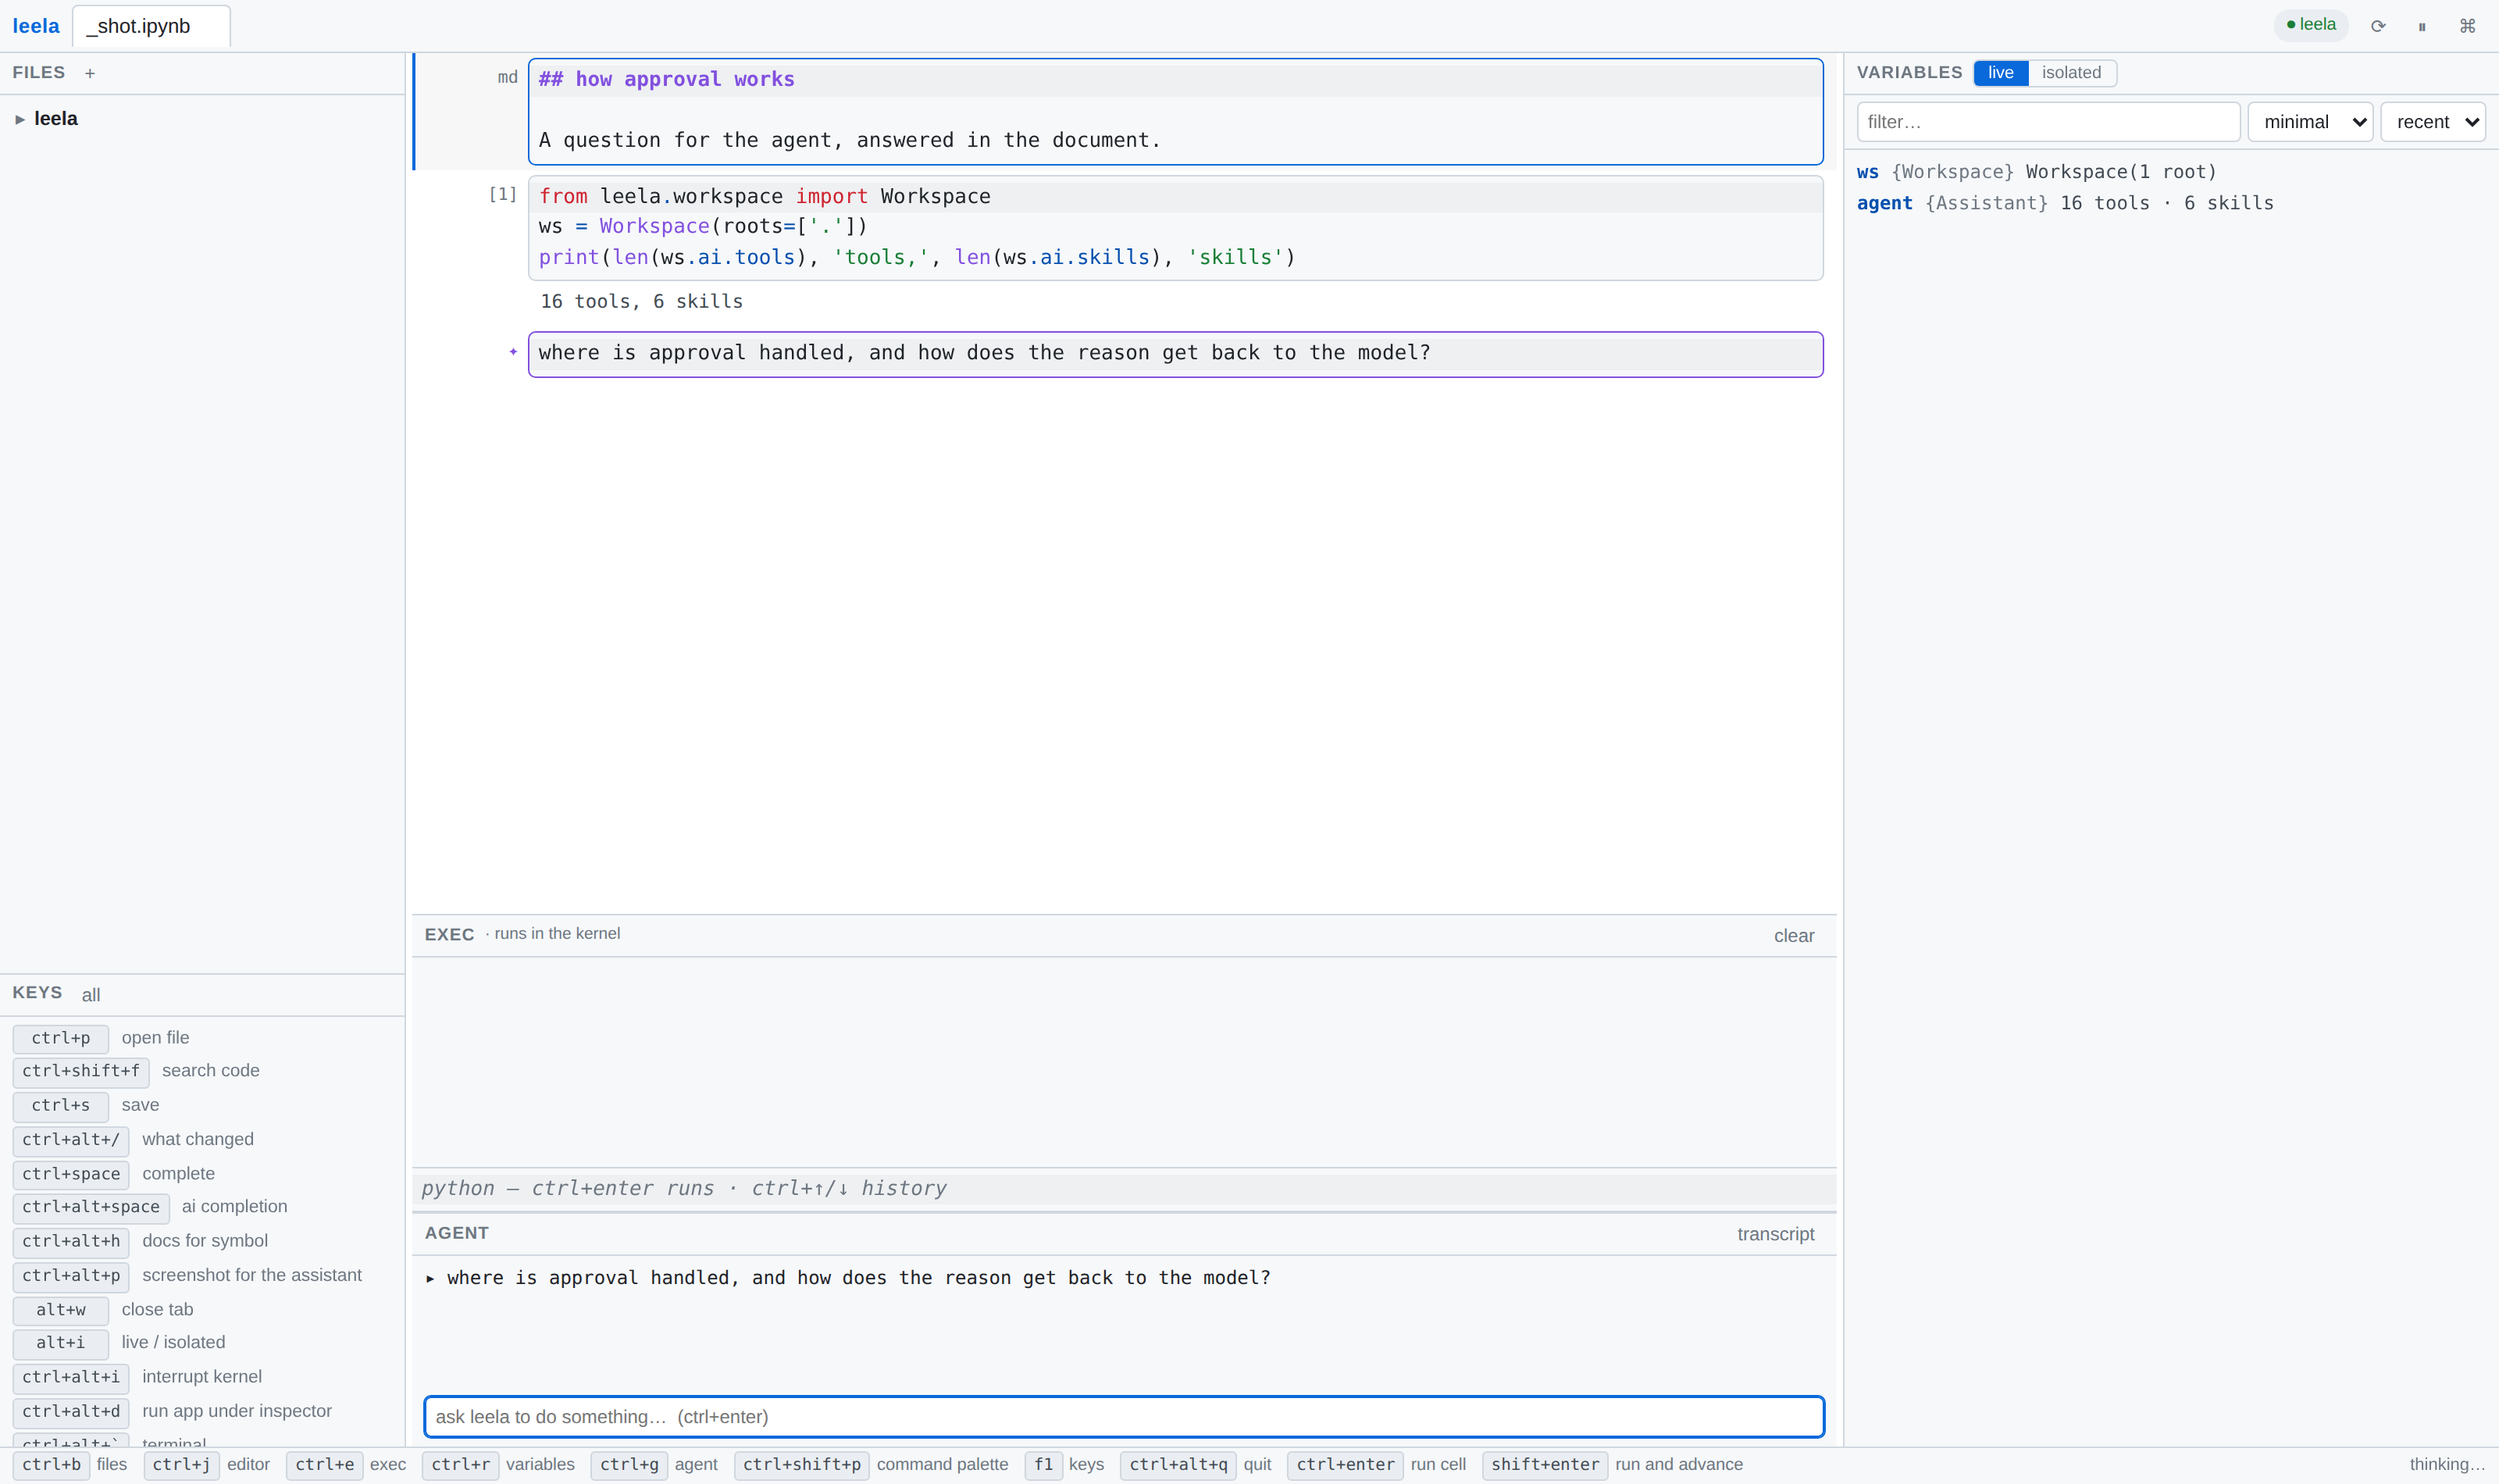
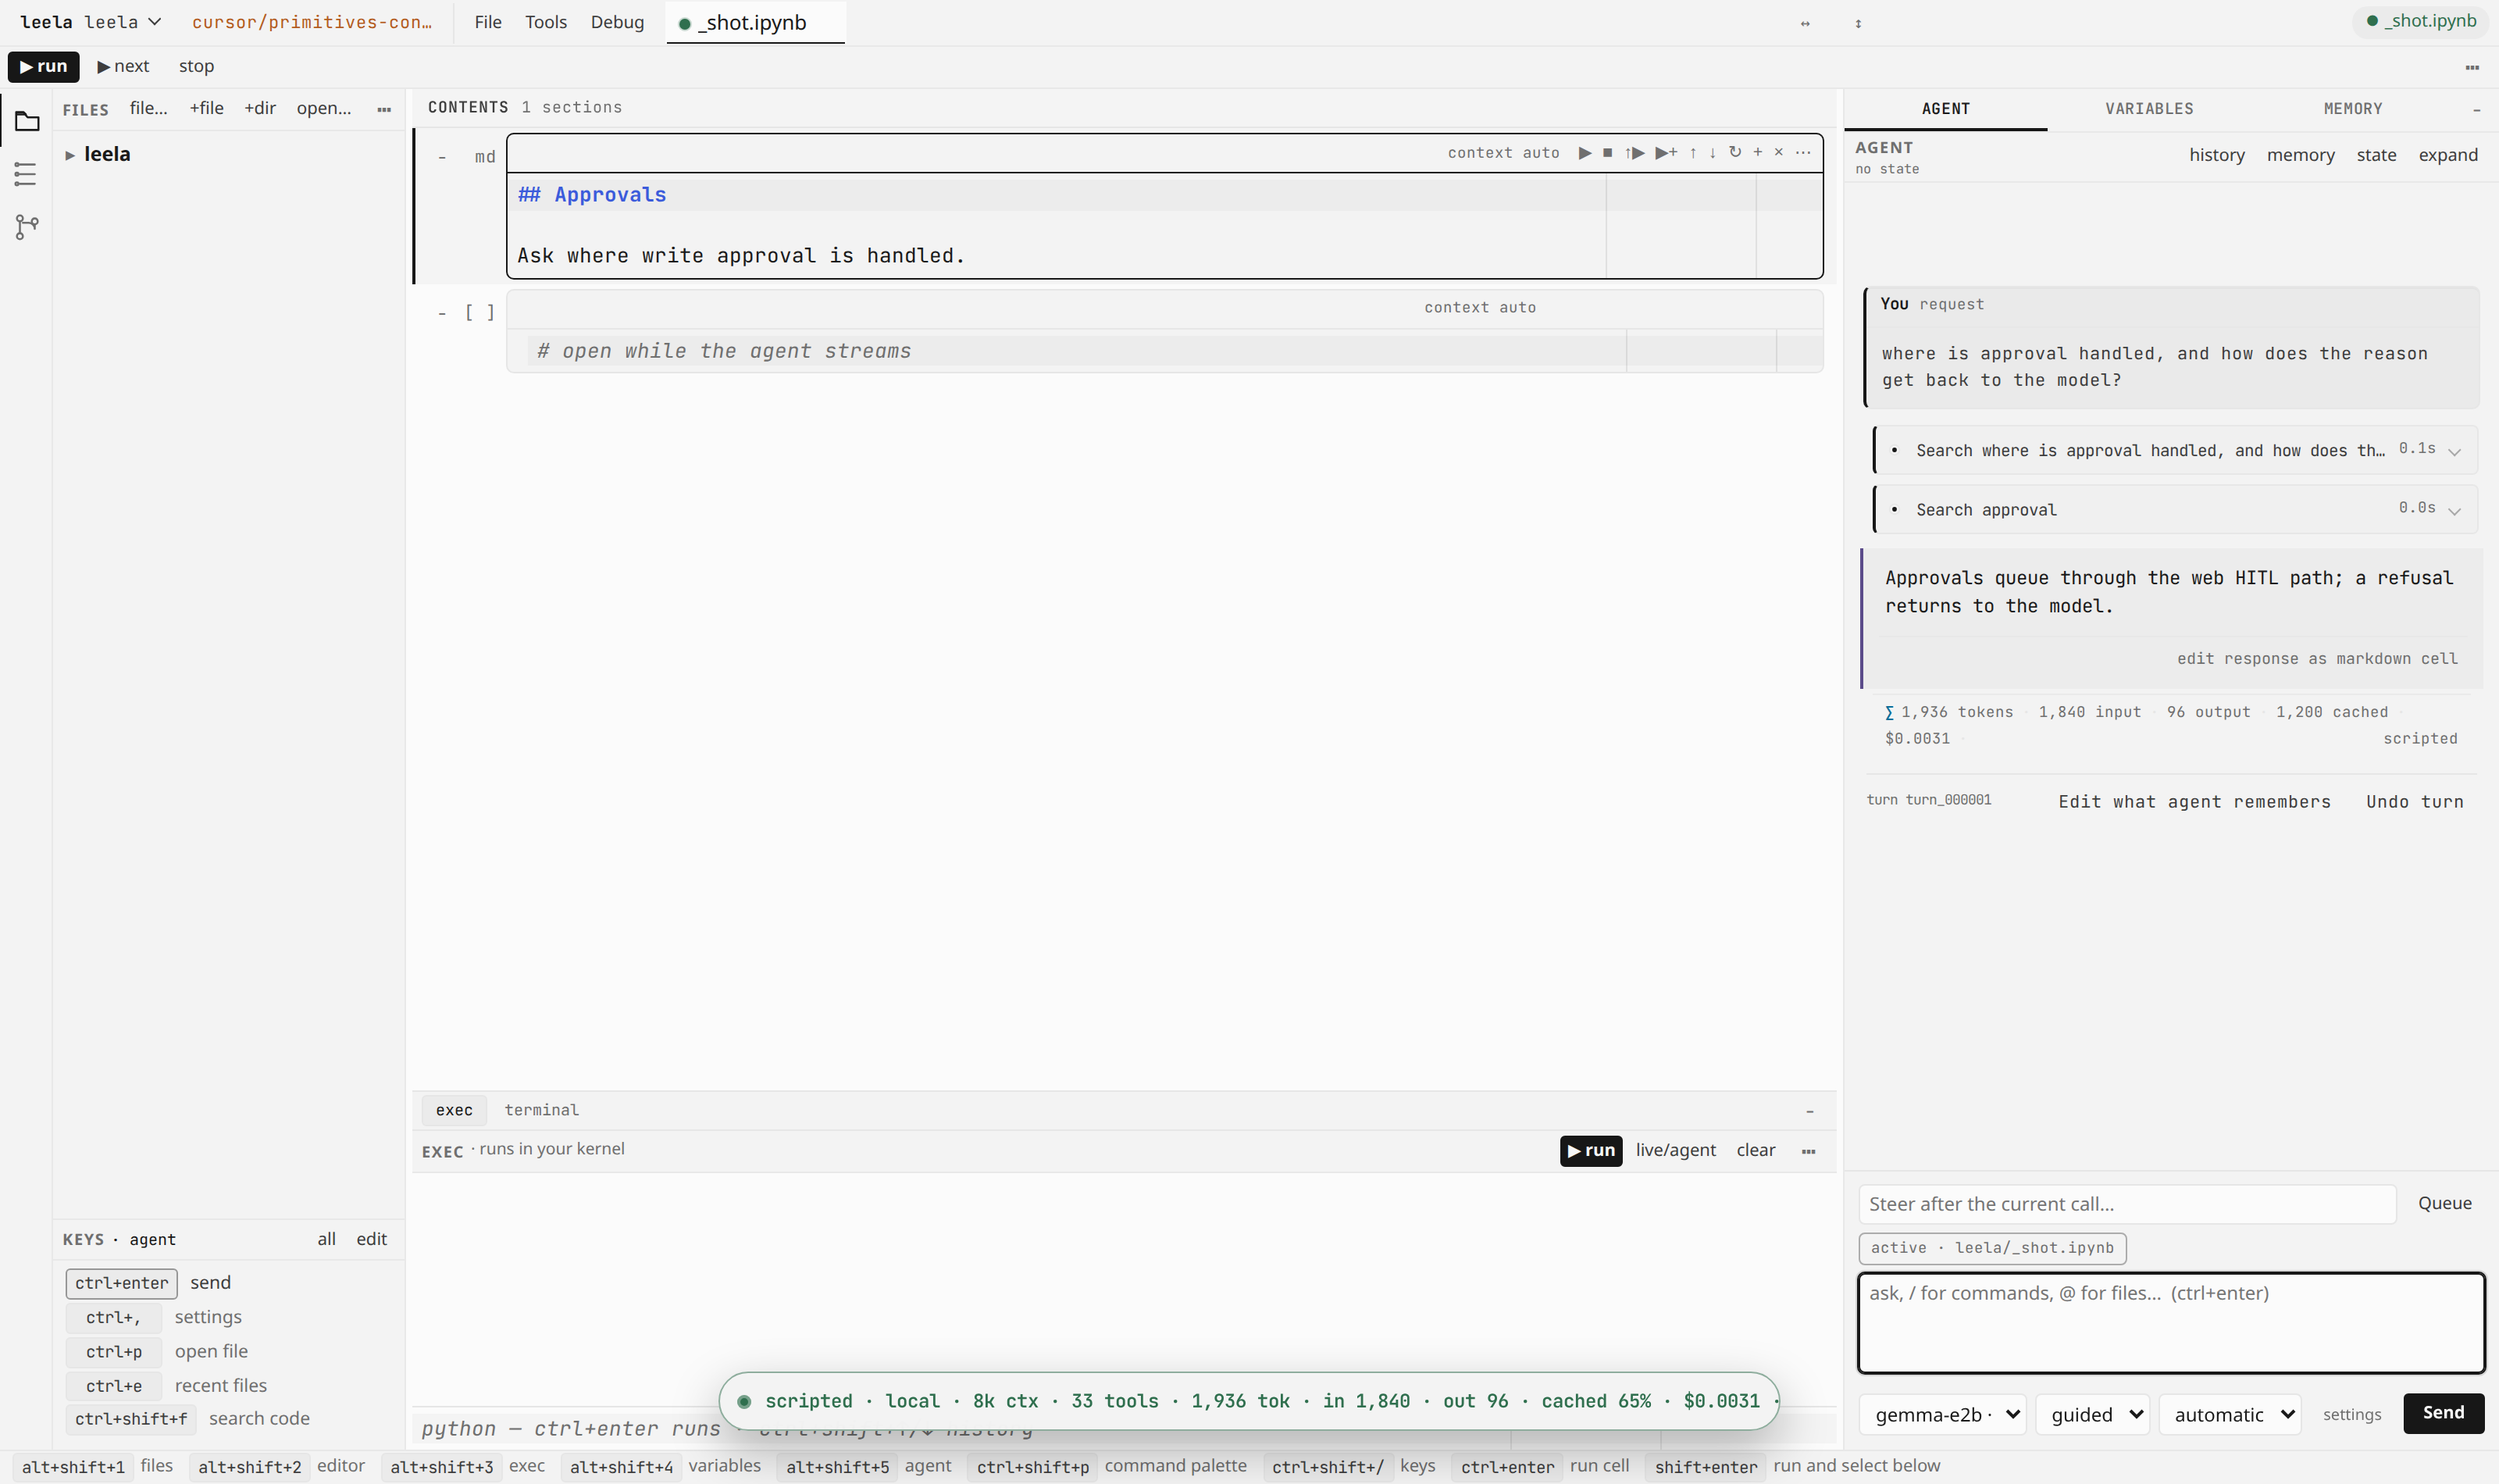
Tighten Cursor chrome and capture theme screenshots
Quieter panel borders, lighter empty/agent chrome, dismiss runtime
modals during webshots, and keep Cloud Agent installs/tests on
tests/blocks with libsqlite3 available for vault-backed views.

diff --git a/leela/web/static/lee-ide.css b/leela/web/static/lee-ide.css
@@ -53,9 +53,9 @@
 /* Cursor: thin light chrome. Hairline borders, quiet panels, near-black primaries —
    deliberately not card-y or blocky. Keeps the same structural selectors as light/dark. */
 :root[data-theme="cursor"] {
-  --lee-bg: #fbfbfb; --lee-bg1: #f3f3f3; --lee-bg2: #ebebeb; --lee-bg3: #e0e0e0;
+  --lee-bg: #fbfbfb; --lee-bg1: #f4f4f4; --lee-bg2: #ececec; --lee-bg3: #e2e2e2;
   --lee-fg: #1a1a1a; --lee-fg2: #3d3d3d; --lee-fg4: #6f6f6f;
-  --lee-border: #e6e6e6; --lee-accent: #171717; --lee-sel: #e8e8e8; --lee-selection-fg: #111111;
+  --lee-border: #ebebeb; --lee-accent: #171717; --lee-sel: #e7e7e7; --lee-selection-fg: #111111;
   --lee-red: #c23b22; --lee-green: #2f6f4e; --lee-yellow: #8a6d1b; --lee-orange: #b35c1e;
   --lee-blue: #3b5bdb; --lee-purple: #5b4b8a; --lee-aqua: #0b6e99;
   --lee-output: #161616; --lee-warning: #8a6d1b; --lee-log: #b4232d;
@@ -2048,8 +2048,19 @@ kbd {
 :root[data-theme="cursor"] .lee-btn.go:hover { filter: brightness(1.08); color: #fff; }
 :root[data-theme="cursor"] .lee-btn.warn { background: transparent; }
 :root[data-theme="cursor"] .lee-phead .lee-btn { padding: 1px 4px; }
-:root[data-theme="cursor"] .lee-agent-head { min-height: 32px; padding: 3px 8px; background: var(--lee-bg1); }
-:root[data-theme="cursor"] .lee-agent-head-actions .lee-btn { min-height: 22px; padding-inline: 6px; border-radius: 3px; }
+:root[data-theme="cursor"] .lee-agent-head { min-height: 28px; padding: 2px 7px; background: var(--lee-bg1); border-bottom: 1px solid color-mix(in srgb, var(--lee-border) 88%, transparent); }
+:root[data-theme="cursor"] .lee-agent-head-actions .lee-btn { min-height: 20px; padding-inline: 5px; border-radius: 2px; background: transparent; }
+:root[data-theme="cursor"] .lee-agent .lee-btn.active { background: var(--lee-sel); color: var(--lee-fg); border-color: transparent; }
+:root[data-theme="cursor"] .lee-right .lee-agent .lee-agentlog { padding: 8px 10px 14px; }
+:root[data-theme="cursor"] .lee-empty {
+  width: min(360px, calc(100% - 28px)); justify-content: flex-start; padding-top: 28px;
+  border: 0; background: transparent; box-shadow: none;
+}
+:root[data-theme="cursor"] .lee-empty-mark {
+  width: 28px; height: 28px; margin-bottom: 12px; border-radius: 6px; border-width: 1px;
+}
+:root[data-theme="cursor"] .lee-empty strong { font-size: 15px; font-weight: 600; }
+:root[data-theme="cursor"] .lee-empty p { margin: 5px 0 12px; font-size: 12px; }
 :root[data-theme="cursor"] .lee-node { border-radius: 2px; padding: 1px 6px 1px 8px; }
 :root[data-theme="cursor"] .lee-node.sel { background: var(--lee-sel); color: var(--lee-selection-fg); }
 :root[data-theme="cursor"] .lee-node:hover { background: color-mix(in srgb, var(--lee-bg2) 80%, transparent); }
@@ -2073,3 +2084,12 @@ kbd {
 :root[data-theme="cursor"] .lee-memory .lee-mrow,
 :root[data-theme="cursor"] .lee-varspanel .lee-vrow { border-radius: 2px; }
 :root[data-theme="cursor"] .lee-brand { color: var(--lee-fg); font-weight: 650; }
+:root[data-theme="cursor"] .lee-modalbox {
+  border-radius: 4px; border-color: color-mix(in srgb, var(--lee-border) 92%, transparent);
+  box-shadow: 0 10px 28px rgba(0,0,0,.12);
+}
+:root[data-theme="cursor"] .lee-composer-send,
+:root[data-theme="cursor"] #agentsend,
+:root[data-theme="cursor"] .lee-agent .lee-btn.go {
+  min-height: 26px; border-radius: 3px; padding: 0 10px; font-weight: 550;
+}

diff --git a/tools/webshots.py b/tools/webshots.py
@@ -55,6 +55,8 @@ async def shoot():
         pg = await b.new_page(viewport={'width': 1600, 'height': 950}, device_scale_factor=2)
         await pg.goto(f'http://127.0.0.1:{PORT}/', wait_until='networkidle')
         await pg.wait_for_timeout(800)
+        # Project-runtime prompts are useful in the IDE, but they steal the shot.
+        await pg.evaluate("document.querySelectorAll('.lee-modal').forEach(m => m.remove())")
 
         # Cursor theme evidence: agent + files chrome before the prompt is filled.
         await pg.evaluate("applyTheme('cursor')")
@@ -67,6 +69,7 @@ async def shoot():
         await pg.evaluate("leeAct('agent_send')")
 
         await pg.wait_for_timeout(1700)
+        await pg.evaluate("document.querySelectorAll('.lee-modal').forEach(m => m.remove())")
         await pg.screenshot(path=str(OUT/'web-stream-1-tools.png'))
 
         await pg.wait_for_timeout(1600)
@@ -76,9 +79,11 @@ async def shoot():
             await pg.wait_for_timeout(200)
             if not ws.ai.busy: break
         await pg.wait_for_timeout(600)
+        await pg.evaluate("document.querySelectorAll('.lee-modal').forEach(m => m.remove())")
         await pg.screenshot(path=str(OUT/'web-stream-3-done.png'))
 
         # Memory sources view — vault-backed research memory.
+        await pg.evaluate("document.querySelectorAll('.lee-modal').forEach(m => m.remove())")
         await pg.click('[data-right="memory"]')
         await pg.click('[data-memory-view="sources"]')
         await pg.wait_for_timeout(800)

diff --git a/tests/blocks/test_web_block.py b/tests/blocks/test_web_block.py
@@ -4,11 +4,11 @@ from __future__ import annotations
 
 from pathlib import Path
 
-from fasthtml.common import to_xml
+from fasthtml.common import first, to_xml
 from starlette.testclient import TestClient
 
 from leela.term import TerminalGate
-from leela.web.app import _files_panel, _shell, ide_app
+from leela.web.app import _shell, ide_app
 from leela.workspace import Workspace
 
 ROOT = Path(__file__).resolve().parents[2]
@@ -31,9 +31,11 @@ def test_cursor_theme_is_default_and_keeps_light_dark_system():
 
 def test_file_click_sets_the_same_selected_state_as_keyboard_navigation(tmp_path):
     """Mouse opens used to stopPropagation without painting `.sel`; keys already did."""
+    from leela.web.app import _tree_node
     (tmp_path / 'alpha.py').write_text('x = 1\n')
     ws = Workspace(roots=[tmp_path])
-    html = to_xml(_files_panel(ws))
+    file_entry = first(ws.fs.ls(str(tmp_path)))
+    html = to_xml(_tree_node(file_entry))
     assert 'selectTreeNode(this)' in html
     assert 'leeOpenFile(' in html
     open_fn = JS[JS.index('async function leeOpenFile'):JS.index('window.leeOpenFile')]
